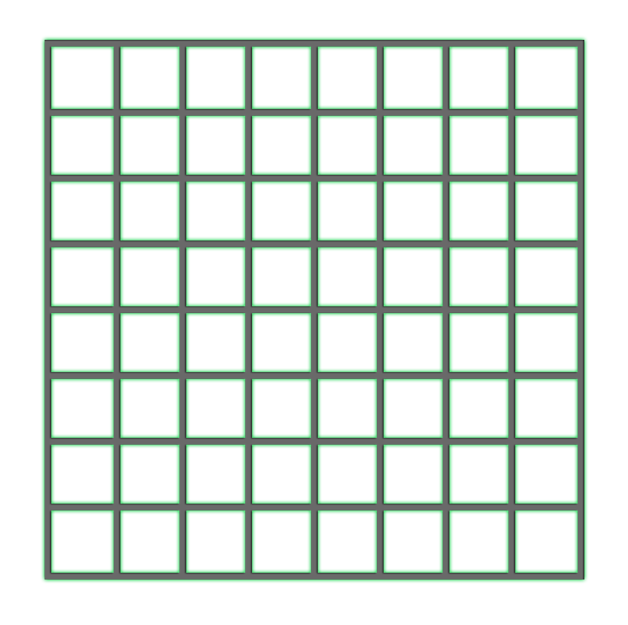
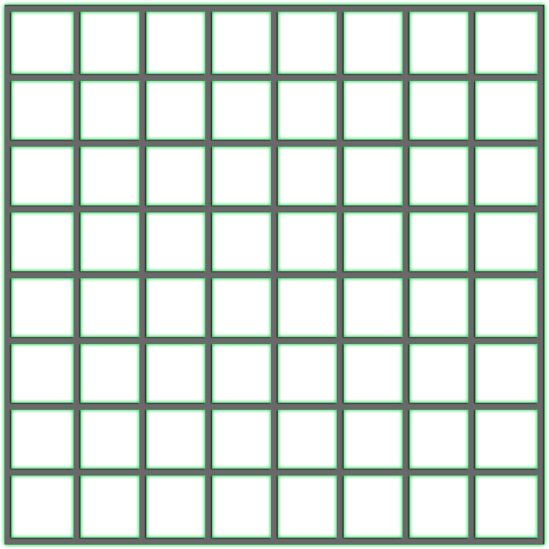
IMPORTANT2 - return to old coordinates
New texture to othello, which its sizes are as on wood texture

diff --git a/Classes/BoardLayer.cpp b/Classes/BoardLayer.cpp
@@ -90,15 +90,23 @@ bool BoardLayer::init(){
         
         CCLOG("othello? %i",othelloIsEnabled);
         
-        /*
+        
         if (othelloIsEnabled) {
-            widthBoard = boardSprite->getContentSize().width -2*50; //542, 2*42
+            /*widthBoard = boardSprite->getContentSize().width -2*50; //542, 2*42
             CCLOG("widthBoardCoord: %f", widthBoard);
             //float tileS = (boardSprite->getContentSize().width * 0.9)/8;
             tileSize = widthBoard/8*0.9;
             originBoardX = boardSprite->boundingBox().origin.x + 50.0f; //42
             originBoardY = boardSprite->boundingBox().origin.y + 50.0f; //45
-            anchorPointSprite = ccp(0.2, 0.2);
+            anchorPointSprite = ccp(0.2, 0.2);*/
+            
+            widthBoard = boardSprite->getContentSize().width;
+            originBoardX = boardSprite->boundingBox().origin.x;
+            originBoardY = boardSprite->boundingBox().origin.y;
+            tileSize = floorf((boardSprite->getContentSize().width * scaleSprite)/8);
+            tileSize -= 1;
+            CCLOG("TILESIZE FLOOR %f", tileSize);
+            anchorPointSprite = ccp(0.05, 0.09);
             
             CCLOG("originBoardXCoord: %f", originBoardX);
             CCLOG("originBoardYCoord: %f", originBoardY);
@@ -130,8 +138,8 @@ bool BoardLayer::init(){
             CCLOG("originBoardYCoord: %f", originBoardY);
             CCLOG("tileSCoord: %f", tileSize);
 
-        }*/
-        
+        }
+        /*
         widthBoard = boardSprite->getContentSize().width -2*50; //542, 2*42
         CCLOG("widthBoardCoord: %f", widthBoard);
         //float tileS = (boardSprite->getContentSize().width * 0.9)/8;
@@ -143,7 +151,7 @@ bool BoardLayer::init(){
         CCLOG("originBoardXCoord: %f", originBoardX);
         CCLOG("originBoardYCoord: %f", originBoardY);
         CCLOG("tileSCoord: %f", tileSize);
-        
+        */
         this->setItemsPositions();
         
         this->addItemsToBoard();
@@ -713,7 +721,7 @@ void BoardLayer::createBeginningPawnsPosition(){
             }
 			else {
                 uiv[x][y] = CCSprite::create(colorFileNameFirst);
-                uiv[x][y]->setVisible(true);
+                uiv[x][y]->setVisible(false);
                  
                 //uiv[x][y] = NULL;
             }
@@ -966,16 +974,26 @@ void BoardLayer::ccTouchesEnded(cocos2d::CCSet* touches , cocos2d::CCEvent* even
     
     CCLOG("(BoardBonds)X is: %f and Y is: %f", boardSprite->boundingBox().origin.x, boardSprite->boundingBox().origin.y);
    
+       /* float EndX = originBoardX + widthBoard;
+        float EndY = originBoardY + widthBoard;
+        if (location.x > originBoardX && location.x < EndX && location.y > originBoardY && location.y < EndY)
+            */
+        
      //x,y to indeksy tablicy gry, ktory kafelek inaczej mowiac
     if(boardSprite->boundingBox().containsPoint(location)){
         
         float pawnX, pawnY;
         int Xx, Yy;
         float currentStartingPoint  = boardSprite->boundingBox().origin.x;
+        //float currentStartingPoint = originBoardX;
+        
         //float currentEndingPoint = currentStartingPoint + TILE_SIZE;
         float currentEndingPoint = currentStartingPoint + tileSize;
         
+        
         float currentStartingPointY = boardSprite->boundingBox().origin.y;
+        //float currentStartingPointY = originBoardY;
+        
         //float currentEndingPointY = currentStartingPointY + TILE_SIZE;
         float currentEndingPointY = currentStartingPointY + tileSize;
         
